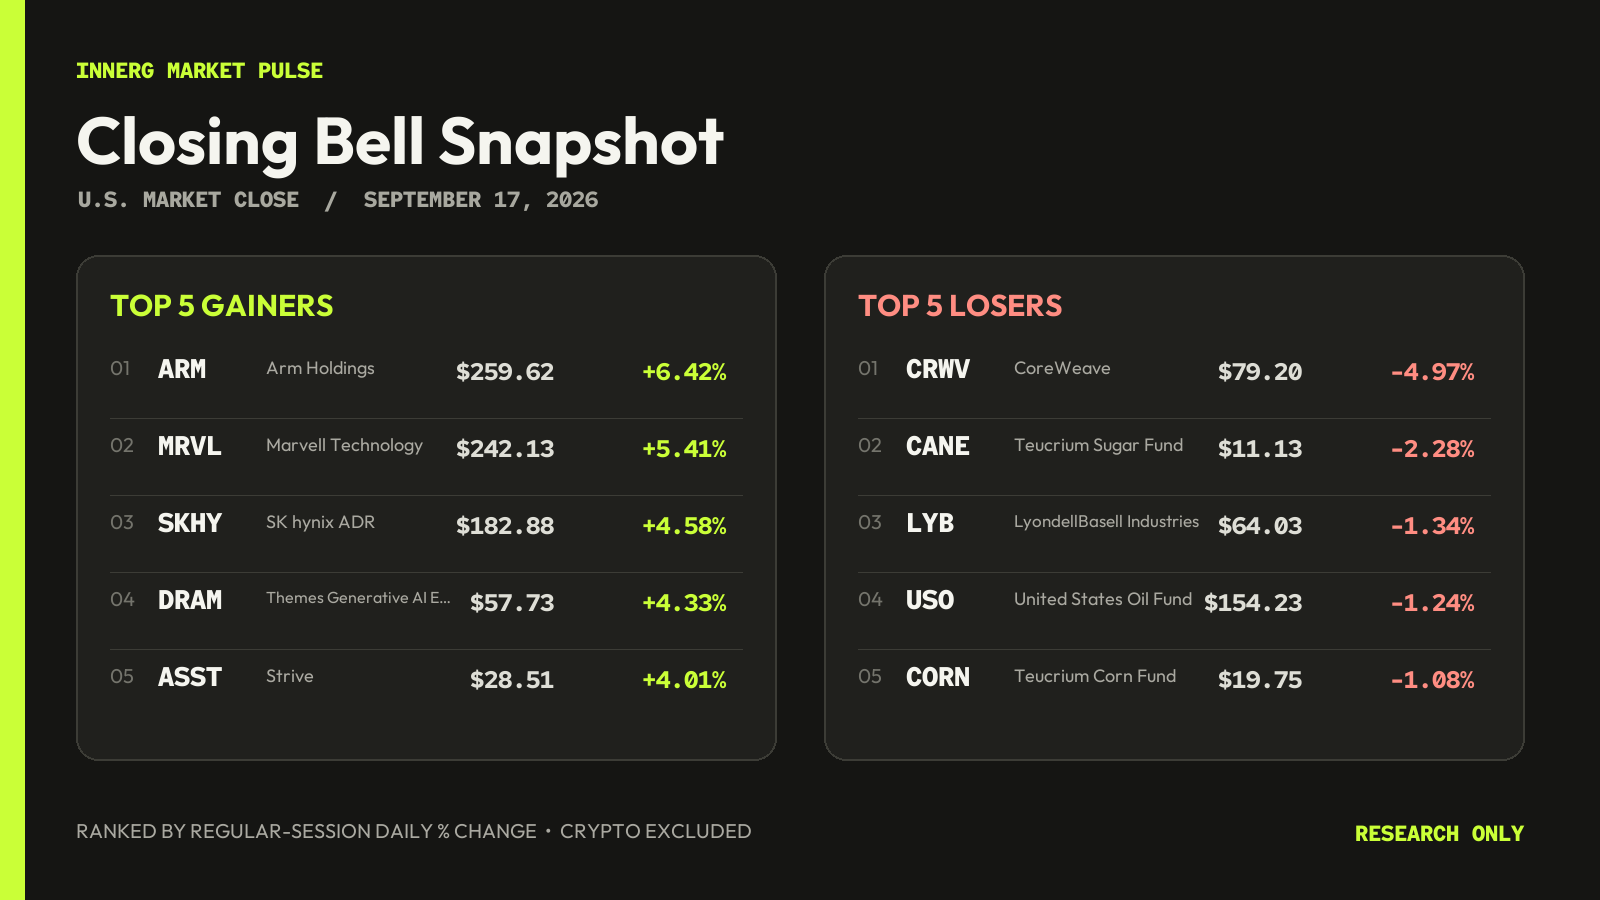
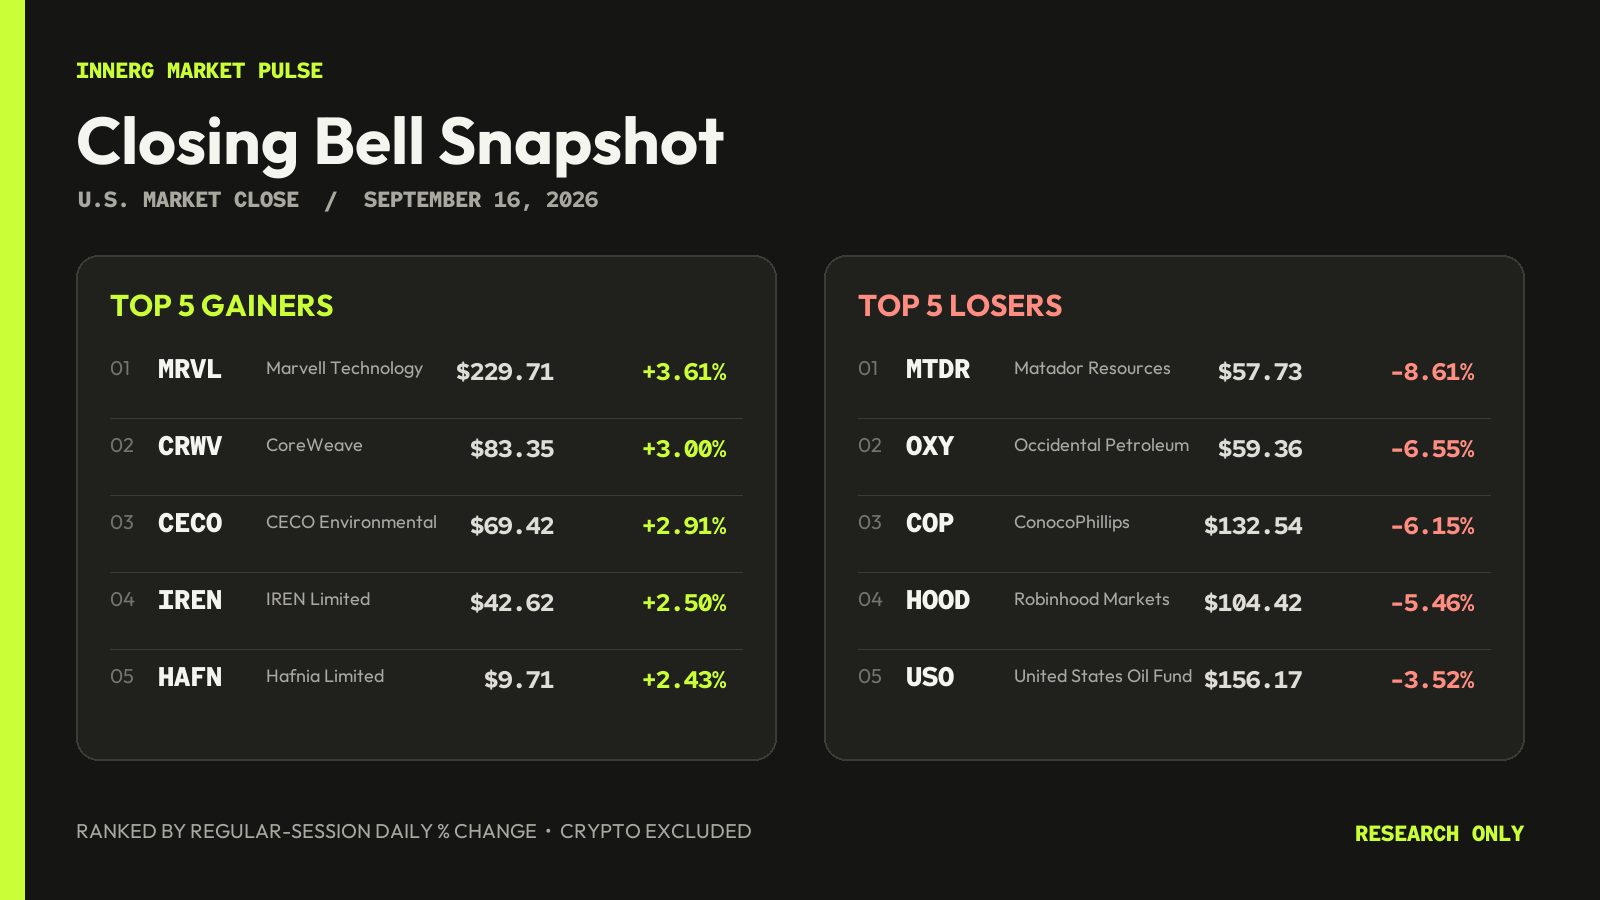
Use completed sessions for closing report

diff --git a/scripts/build_closing_report.py b/scripts/build_closing_report.py
@@ -18,37 +18,58 @@ GRAPHIC = ROOT / "assets" / "innerg-closing-bell.png"
 FONT_DIR = pathlib.Path("/Users/nasirrm/.codex/skills/canvas-design/canvas-fonts")
 
 
-def eligible(asset: dict) -> bool:
-    change = asset.get("returns", {}).get("day")
-    return (
-        asset.get("sector") != "crypto"
-        and asset.get("status") == "ok"
-        and isinstance(asset.get("price"), (int, float))
-        and isinstance(change, (int, float))
-        and math.isfinite(float(asset["price"]))
-        and math.isfinite(float(change))
-    )
+def dated_closes(asset: dict, through: dt.date) -> list[tuple[dt.date, float]]:
+    closes = []
+    for timestamp, value in asset.get("charts", {}).get("month", {}).get("points", []):
+        if not isinstance(value, (int, float)) or not math.isfinite(float(value)):
+            continue
+        date = dt.datetime.fromtimestamp(timestamp, ZoneInfo("America/New_York")).date()
+        if date <= through:
+            closes.append((date, float(value)))
+    return closes
 
 
-def report_item(asset: dict) -> dict:
+def report_item(asset: dict, price: float, change: float) -> dict:
     return {
         "symbol": asset["symbol"],
         "name": asset["name"],
         "sector": asset["sector"],
-        "price": round(float(asset["price"]), 4),
+        "price": round(price, 4),
         "currency": asset.get("currency") or "USD",
-        "changePercent": round(float(asset["returns"]["day"]), 4),
+        "changePercent": round(change, 4),
     }
 
 
-def rank_assets(assets: list[dict]) -> tuple[list[dict], list[dict]]:
-    ranked = sorted((asset for asset in assets if eligible(asset)), key=lambda asset: asset["returns"]["day"], reverse=True)
+def latest_completed_market_date(assets: list[dict], now: dt.datetime) -> dt.date:
+    eastern = now.astimezone(ZoneInfo("America/New_York"))
+    through = eastern.date()
+    if eastern.weekday() < 5 and eastern.time() < dt.time(16, 0):
+        through -= dt.timedelta(days=1)
+    while through.weekday() > 4:
+        through -= dt.timedelta(days=1)
+    dates = [points[-1][0] for asset in assets if asset.get("sector") != "crypto" if (points := dated_closes(asset, through))]
+    if not dates:
+        raise ValueError("No completed market session is available")
+    return max(dates)
+
+
+def rank_assets(assets: list[dict], market_date: dt.date) -> tuple[list[dict], list[dict]]:
+    ranked = []
+    for asset in assets:
+        if asset.get("sector") == "crypto" or asset.get("status") != "ok":
+            continue
+        points = dated_closes(asset, market_date)
+        if len(points) < 2 or points[-1][0] != market_date or points[-2][1] == 0:
+            continue
+        change = (points[-1][1] / points[-2][1] - 1) * 100
+        ranked.append((asset, points[-1][1], change))
+    ranked.sort(key=lambda row: row[2], reverse=True)
     gainers = ranked[:5]
-    gainers_symbols = {asset["symbol"] for asset in gainers}
-    losers = [asset for asset in reversed(ranked) if asset["symbol"] not in gainers_symbols][:5]
+    gainers_symbols = {row[0]["symbol"] for row in gainers}
+    losers = [row for row in reversed(ranked) if row[0]["symbol"] not in gainers_symbols][:5]
     if len(gainers) != 5 or len(losers) != 5:
         raise ValueError("At least ten eligible non-crypto assets are required")
-    return [report_item(asset) for asset in gainers], [report_item(asset) for asset in losers]
+    return [report_item(*row) for row in gainers], [report_item(*row) for row in losers]
 
 
 def fit(draw: ImageDraw.ImageDraw, text: str, font_path: pathlib.Path, size: int, max_width: int) -> ImageFont.FreeTypeFont:
@@ -115,11 +136,11 @@ def render_graphic(report: dict) -> None:
 
 def main() -> None:
     snapshot = json.loads(WATCHLIST.read_text(encoding="utf-8"))
-    gainers, losers = rank_assets(snapshot["assets"])
     generated = dt.datetime.now(dt.timezone.utc)
-    market_date = generated.astimezone(ZoneInfo("America/New_York")).date().isoformat()
+    market_date = latest_completed_market_date(snapshot["assets"], generated)
+    gainers, losers = rank_assets(snapshot["assets"], market_date)
     payload = {
-        "marketDate": market_date,
+        "marketDate": market_date.isoformat(),
         "generatedAt": generated.isoformat().replace("+00:00", "Z"),
         "universe": "Public INNERG watchlist, excluding crypto",
         "method": "Regular-session daily percentage change",

diff --git a/README.md b/README.md
@@ -20,7 +20,7 @@ The Robinhood referral is public and disclosed. This page is research and educat
 
 ## Closing Bell report
 
-The public Closing Bell Snapshot ranks five gainers and five losers from the non-crypto watchlist by regular-session daily percentage change. Crypto is excluded because it trades continuously. `scripts/build_closing_report.py` creates `data/closing-report.json` and the 1600 by 900 email graphic at `assets/innerg-closing-bell.png`.
+The public Closing Bell Snapshot ranks five gainers and five losers from the non-crypto watchlist by regular-session daily percentage change. Crypto is excluded because it trades continuously. Before 4:00 PM Eastern, the report keeps the last completed session instead of labeling intraday prices as closing prices. `scripts/build_closing_report.py` creates `data/closing-report.json` and the 1600 by 900 email graphic at `assets/innerg-closing-bell.png`.
 
 The final weekday market refresh runs at 4:20 PM Eastern. It rebuilds the closing report and graphic, commits changed public files, and deploys the site. The separate Codex closing-report task sends the same ten-name snapshot to the authenticated Gmail account after the public update.
 
